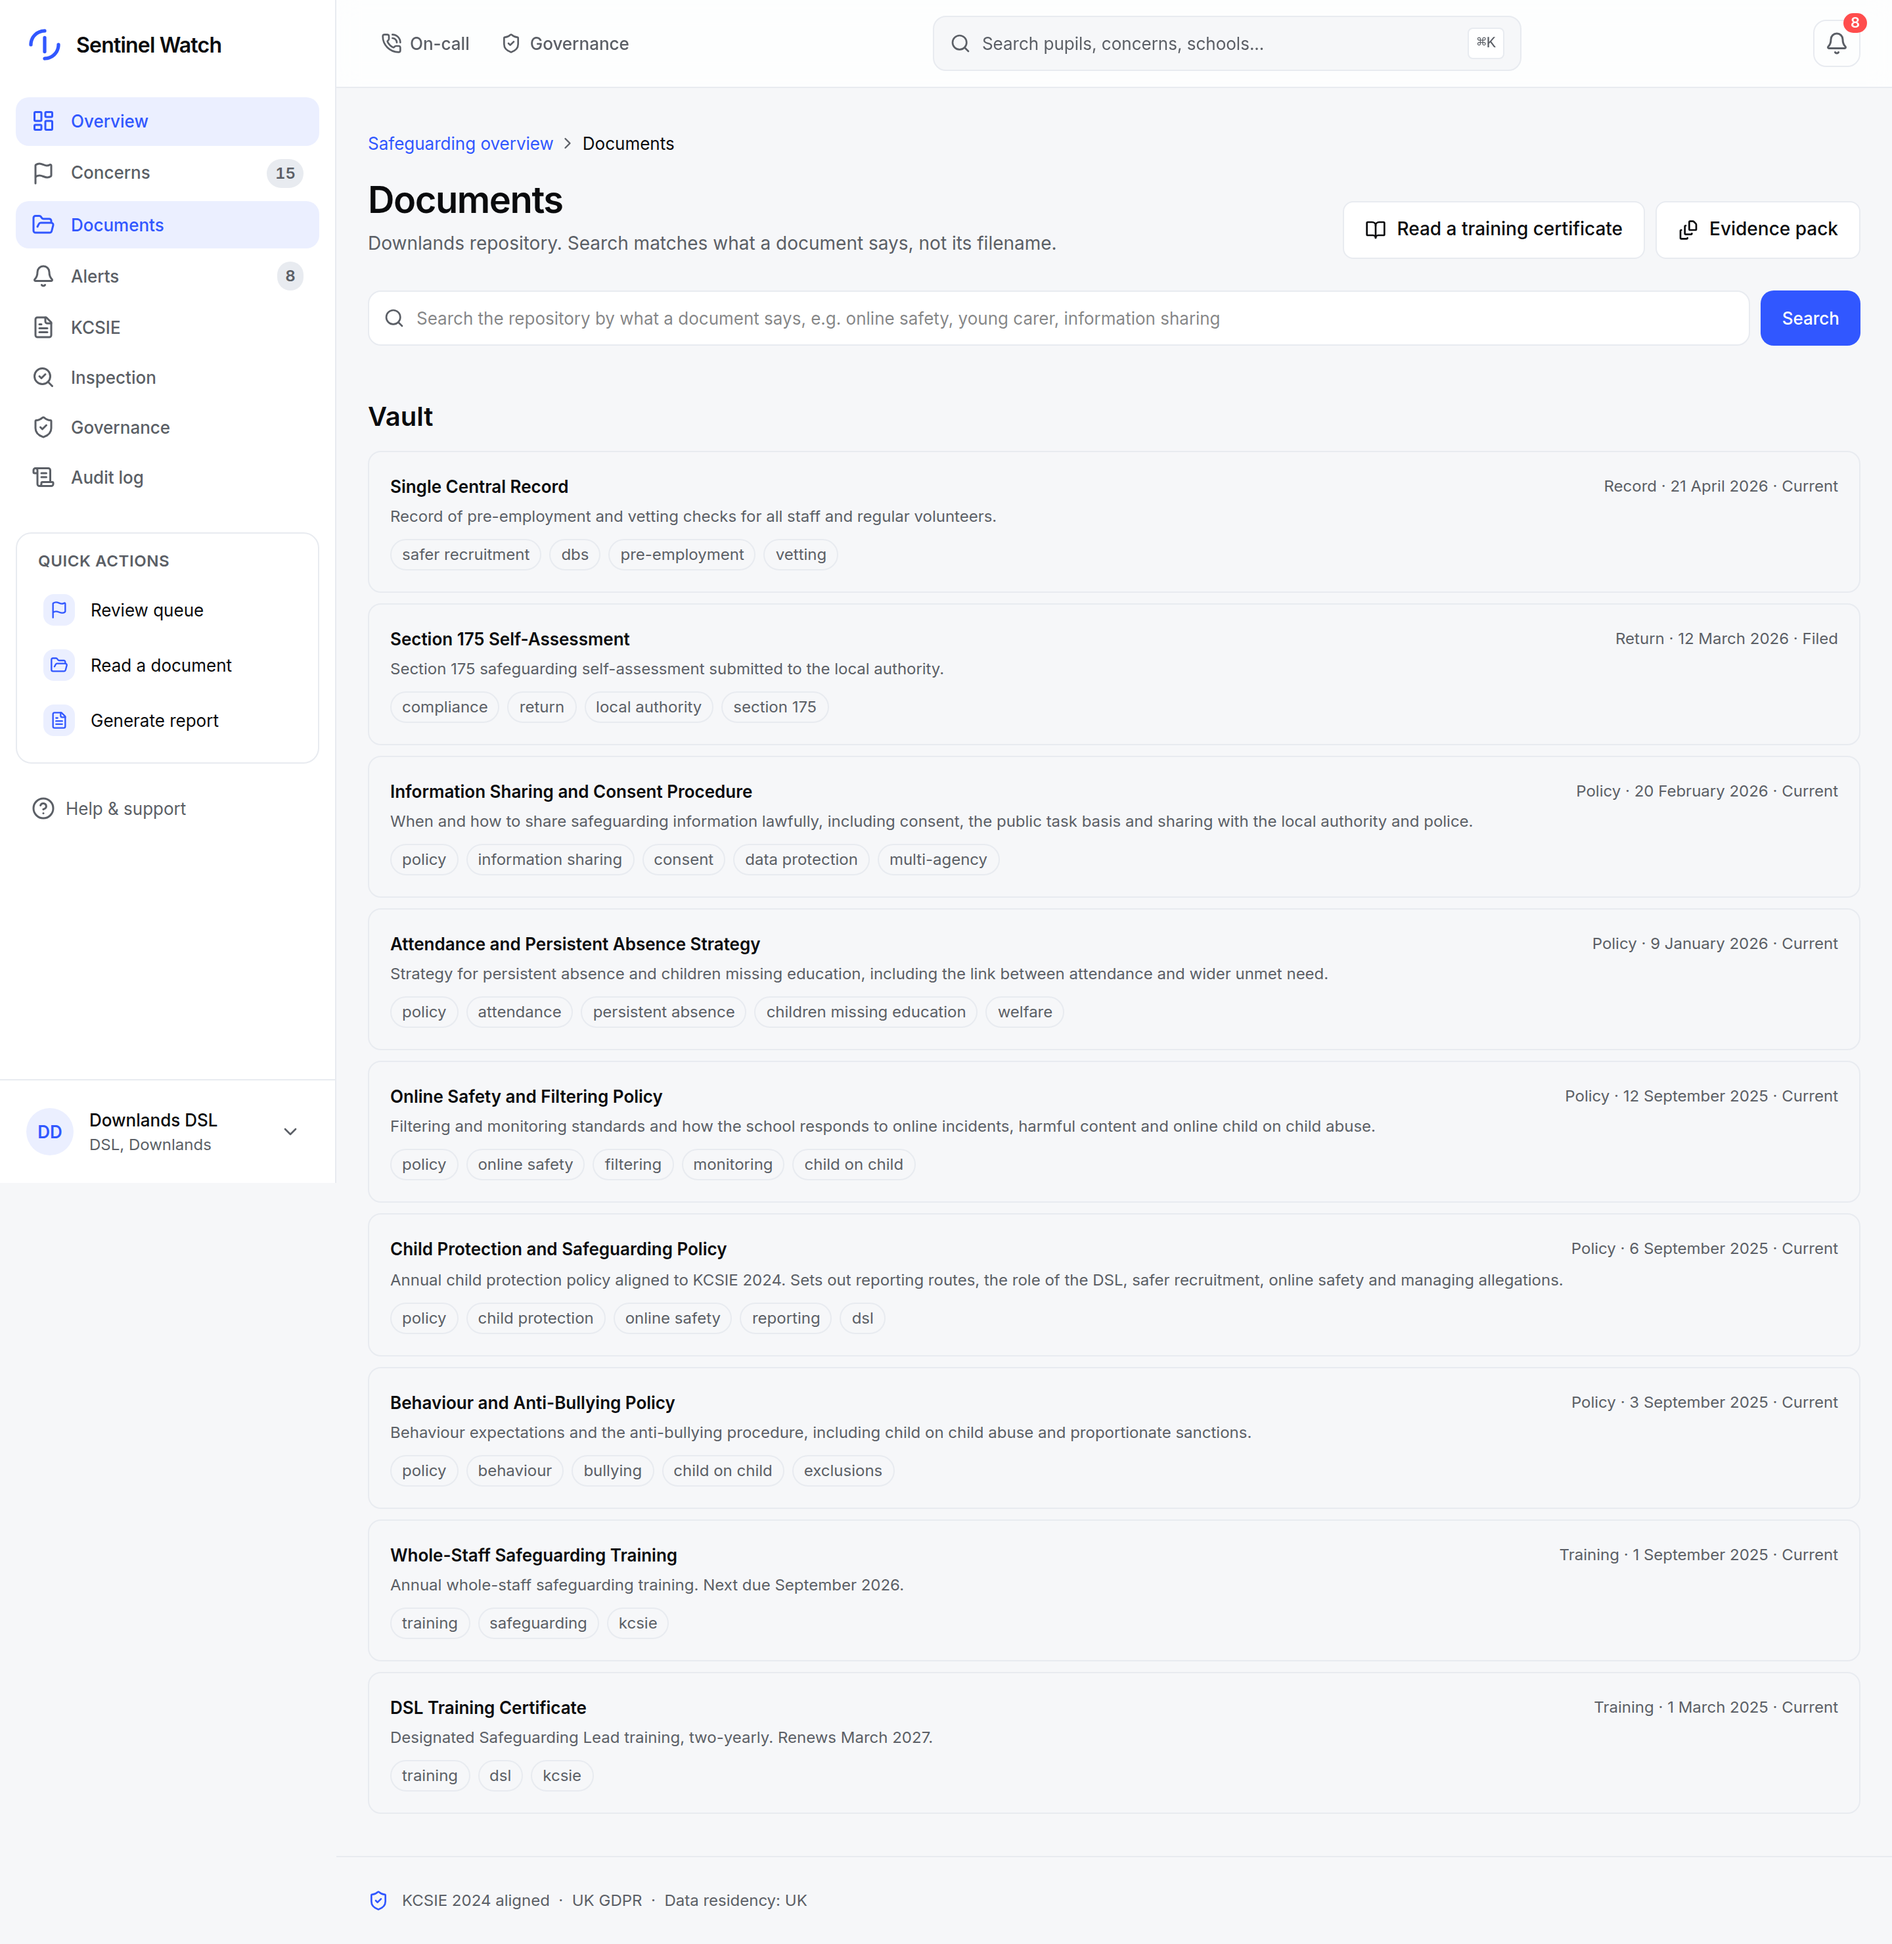
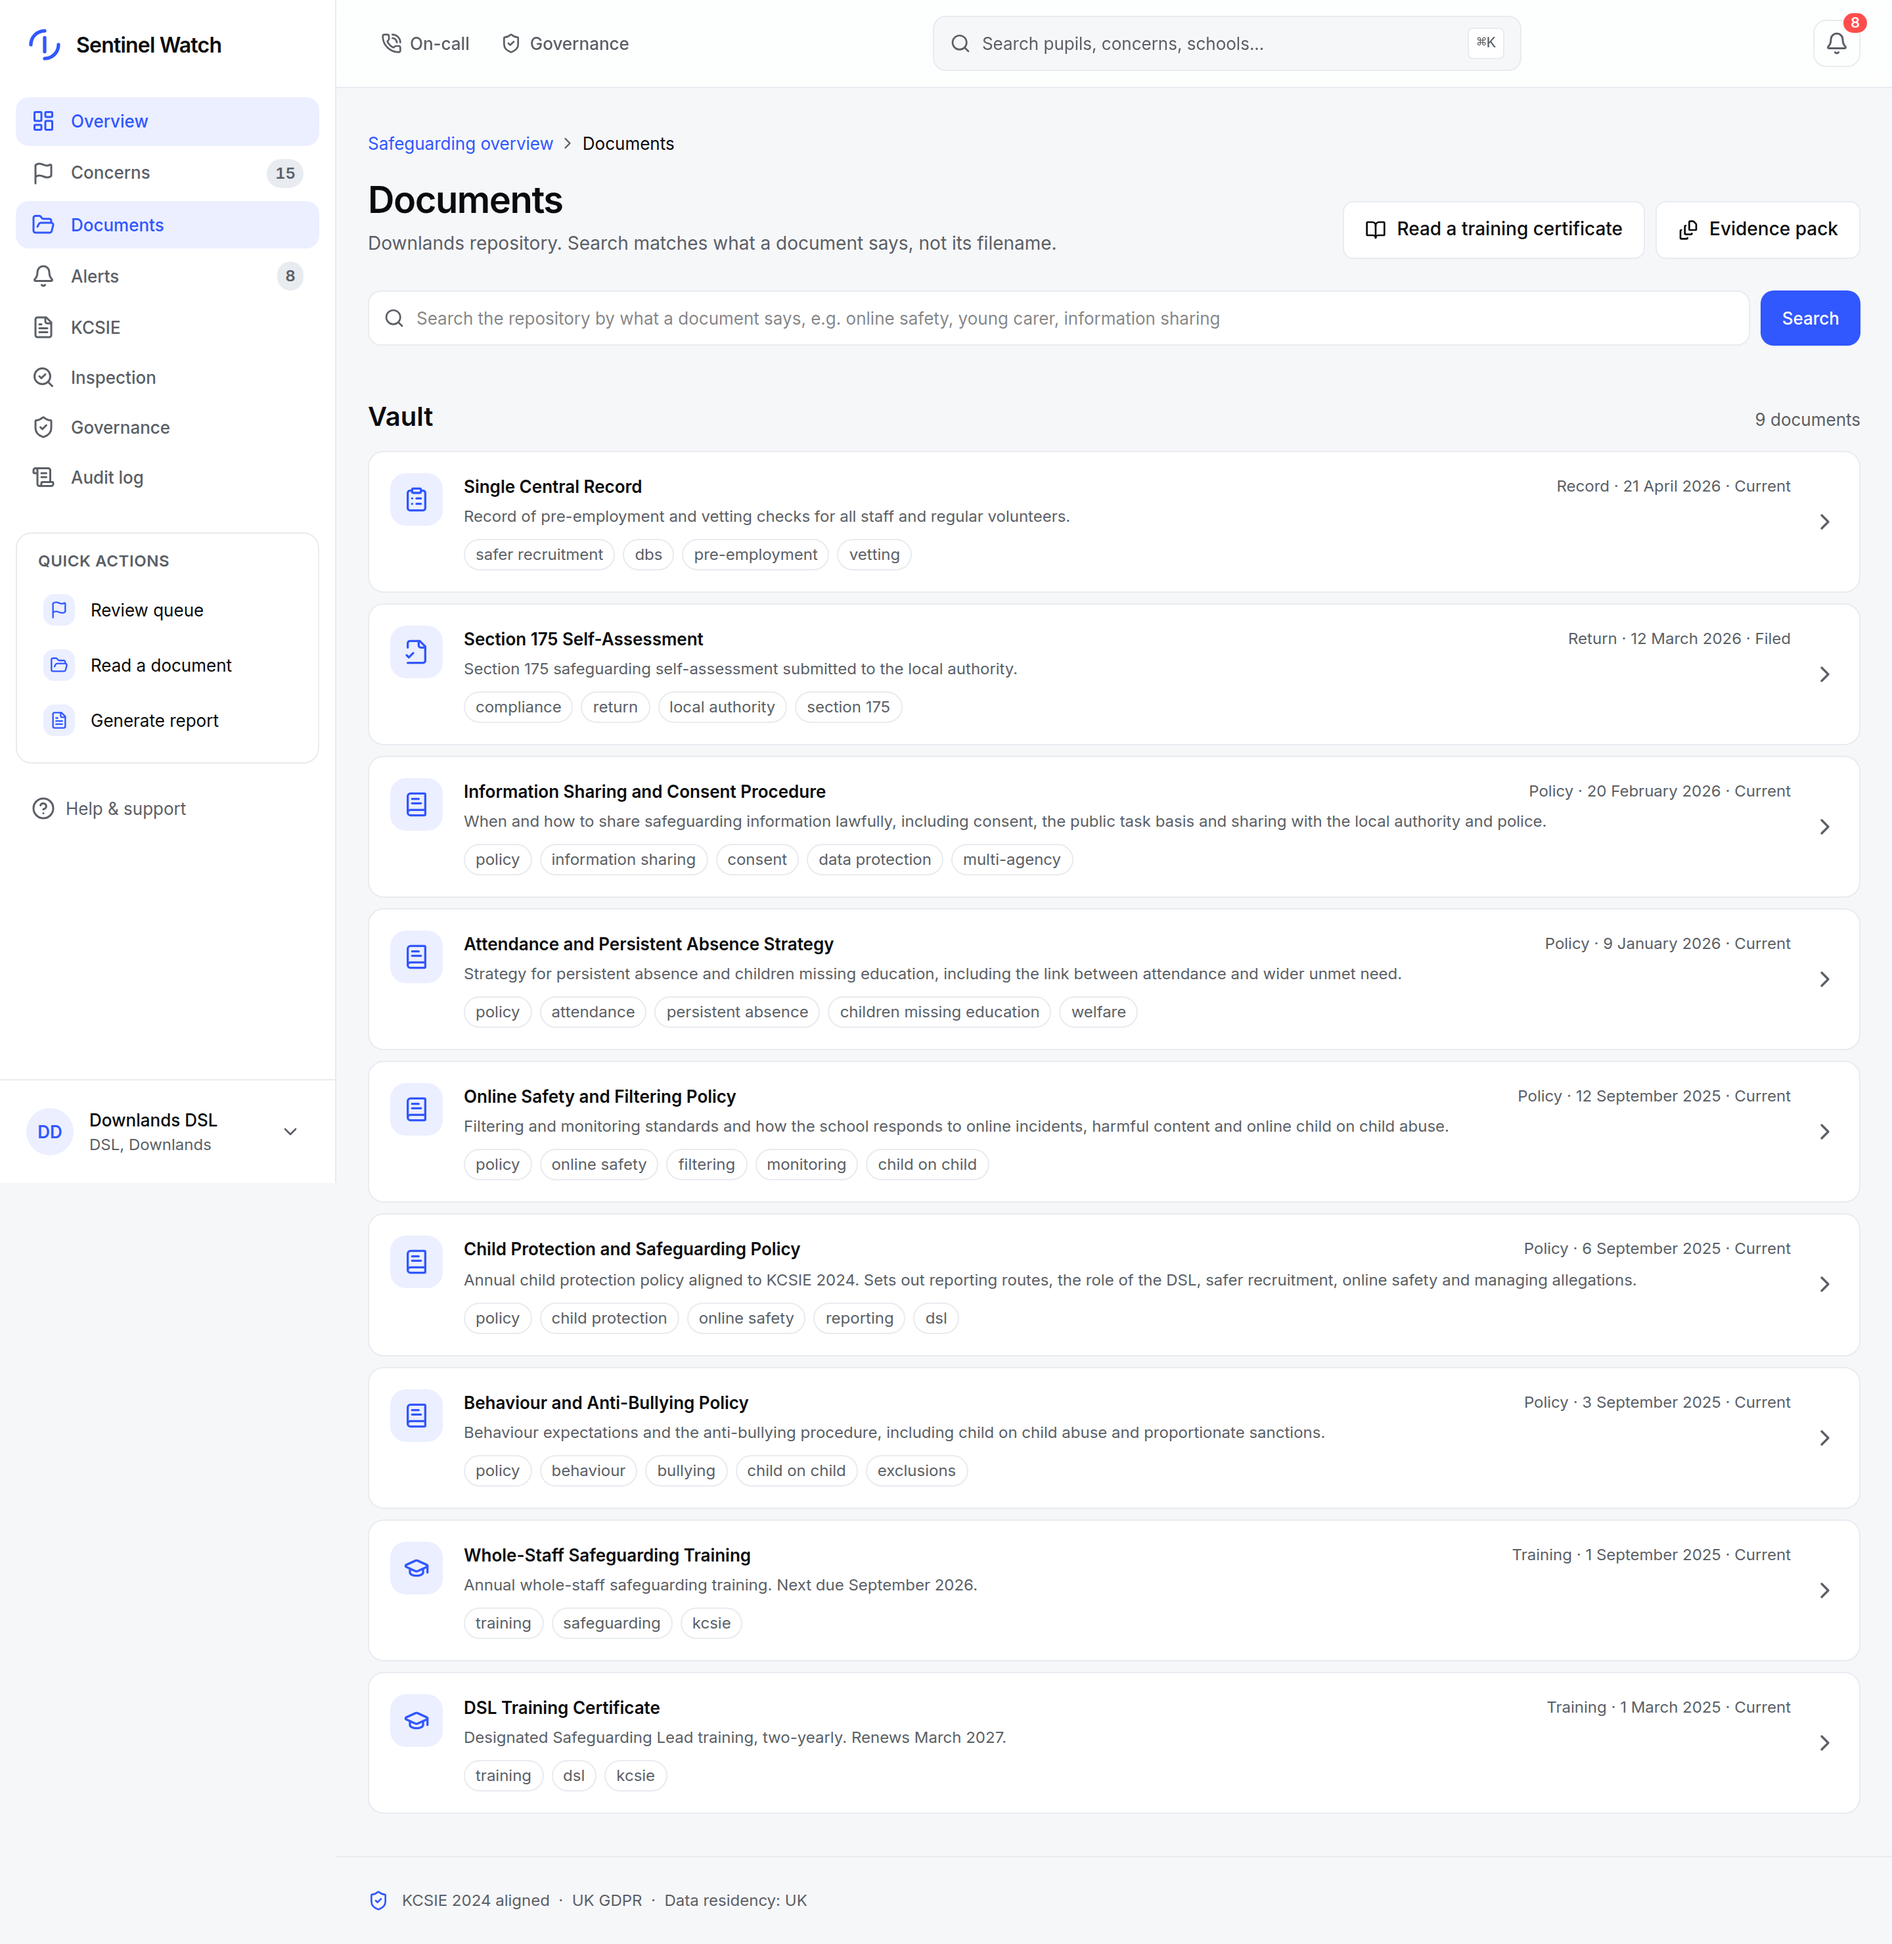
Polish the Documents reader and the case-file workflow
Bring the last two rich flows up to the redesigned standard.

Documents:
- Vault items gain a document-type icon tile (policy, training, record,
  return), a document count, and a chevron; a shared DocTypeIcon returns the
  right icon by type.
- The reader gains a matching icon tile in the header and a centred reading
  column with document-grade typography.

Case-file workflow:
- The checklist now shows a cobalt progress bar under the "N of M / %"
  summary, so progress reads at a glance.
- Scheduled pastoral reviews get a calendar icon and a cleaner row.

UI-only; 140 web tests green, typecheck and lint clean. Screenshots refreshed.

Claude-Session: https://claude.ai/code/session_01MrcyQSs9kLS3APW2MYRm7v

diff --git a/apps/web/src/app/dashboard/school/[schoolId]/documents/page.tsx b/apps/web/src/app/dashboard/school/[schoolId]/documents/page.tsx
@@ -1,11 +1,13 @@
 import Link from "next/link";
 import { redirect } from "next/navigation";
+import { ChevronRight } from "lucide-react";
 
 import { TRPCError } from "@trpc/server";
 
 import { serverApi } from "@/trpc/server";
 
 import { Breadcrumbs } from "../../../shell/breadcrumbs";
+import { DocTypeIcon } from "./doc-icon";
 import { DocumentSearch } from "./document-search";
 import { EvidencePackButton } from "./evidence-pack";
 import { TrainingReader } from "./training-reader";
@@ -73,42 +75,61 @@ export default async function DocumentsPage({
         <DocumentSearch schoolId={schoolId} />
       </div>
 
-      <h2 className="mt-10 text-xl font-semibold">Vault</h2>
+      <div className="mt-10 flex items-baseline justify-between">
+        <h2 className="text-xl font-semibold">Vault</h2>
+        <span className="text-sm text-muted-foreground">
+          {vault.documents.length}{" "}
+          {vault.documents.length === 1 ? "document" : "documents"}
+        </span>
+      </div>
       <ul className="mt-3 flex flex-col gap-2">
-        {vault.documents.map((d) => (
-          <li key={d.id}>
-            <Link
-              href={`/dashboard/school/${schoolId}/documents/${d.id}`}
-              className="block rounded-lg border border-cloud p-4 transition-colors hover:border-cobalt"
-            >
-              <div className="flex flex-wrap items-center justify-between gap-2">
-                <span className="text-sm font-semibold">{d.title}</span>
-                <span className="text-xs text-muted-foreground">
-                  {d.type} ·{" "}
-                  {d.docDate.toLocaleDateString("en-GB", {
-                    day: "numeric",
-                    month: "long",
-                    year: "numeric",
-                  })}{" "}
-                  · {d.status}
+        {vault.documents.map((d) => {
+          return (
+            <li key={d.id}>
+              <Link
+                href={`/dashboard/school/${schoolId}/documents/${d.id}`}
+                className="group flex gap-4 rounded-xl border border-cloud bg-card p-4 transition-colors hover:border-cobalt focus-visible:outline-none focus-visible:ring-2 focus-visible:ring-ring"
+              >
+                <span className="flex size-10 shrink-0 items-center justify-center rounded-xl bg-cobalt-tint text-cobalt">
+                  <DocTypeIcon type={d.type} className="size-5" />
                 </span>
-              </div>
-              <p className="mt-1 text-xs text-muted-foreground">{d.summary}</p>
-              {d.themes.length > 0 ? (
-                <div className="mt-2 flex flex-wrap gap-1.5">
-                  {d.themes.slice(0, 6).map((t) => (
-                    <span
-                      key={t}
-                      className="rounded-full border border-cloud px-2 py-0.5 text-xs text-muted-foreground"
-                    >
-                      {t}
+                <div className="min-w-0 flex-1">
+                  <div className="flex flex-wrap items-center justify-between gap-2">
+                    <span className="text-sm font-semibold">{d.title}</span>
+                    <span className="text-xs text-muted-foreground">
+                      {d.type} ·{" "}
+                      {d.docDate.toLocaleDateString("en-GB", {
+                        day: "numeric",
+                        month: "long",
+                        year: "numeric",
+                      })}{" "}
+                      · {d.status}
                     </span>
-                  ))}
+                  </div>
+                  <p className="mt-1 text-xs text-muted-foreground">
+                    {d.summary}
+                  </p>
+                  {d.themes.length > 0 ? (
+                    <div className="mt-2 flex flex-wrap gap-1.5">
+                      {d.themes.slice(0, 6).map((t) => (
+                        <span
+                          key={t}
+                          className="rounded-full border border-cloud px-2 py-0.5 text-xs text-muted-foreground"
+                        >
+                          {t}
+                        </span>
+                      ))}
+                    </div>
+                  ) : null}
                 </div>
-              ) : null}
-            </Link>
-          </li>
-        ))}
+                <ChevronRight
+                  className="size-5 shrink-0 self-center text-muted-foreground transition-colors group-hover:text-cobalt"
+                  aria-hidden
+                />
+              </Link>
+            </li>
+          );
+        })}
       </ul>
     </div>
   );

diff --git a/apps/web/src/app/dashboard/school/[schoolId]/case/[signalId]/case-file.tsx b/apps/web/src/app/dashboard/school/[schoolId]/case/[signalId]/case-file.tsx
@@ -2,7 +2,7 @@
 
 import { useRouter } from "next/navigation";
 import { useState } from "react";
-import { CheckCircle2, Circle, FolderOpen } from "lucide-react";
+import { CalendarClock, CheckCircle2, Circle, FolderOpen } from "lucide-react";
 
 import { Button } from "@/components/ui/button";
 import { api } from "@/trpc/react";
@@ -53,11 +53,17 @@ export function CaseFilePanel({
 
   return (
     <div>
-      <div className="mb-3 flex items-center justify-between text-sm">
+      <div className="mb-1.5 flex items-center justify-between text-sm">
         <span className="text-muted-foreground">
           {caseFile.done} of {caseFile.total} complete
         </span>
         <span className="font-semibold tabular-nums">{pct}%</span>
+      </div>
+      <div className="mb-3 h-1.5 w-full overflow-hidden rounded-full bg-cloud">
+        <div
+          className="h-full rounded-full bg-cobalt transition-all"
+          style={{ width: `${pct}%` }}
+        />
       </div>
       <ul className="flex flex-col gap-1">
         {caseFile.tasks.map((task) => (
@@ -129,14 +135,23 @@ export function ReviewScheduler({
       {reviews.length > 0 ? (
         <ul className="mb-4 flex flex-col gap-2">
           {reviews.map((r) => (
-            <li key={r.id} className="rounded-md border border-cloud p-3 text-sm">
-              <div className="font-medium">{r.scheduledFor}</div>
-              {r.attendees.length > 0 ? (
-                <div className="text-xs text-muted-foreground">
-                  With {r.attendees.join(", ")}
-                </div>
-              ) : null}
-              {r.note ? <div className="mt-1 text-xs">{r.note}</div> : null}
+            <li
+              key={r.id}
+              className="flex gap-2.5 rounded-lg border border-cloud p-3 text-sm"
+            >
+              <CalendarClock
+                className="mt-0.5 size-4 shrink-0 text-cobalt"
+                aria-hidden
+              />
+              <div className="min-w-0">
+                <div className="font-medium">{r.scheduledFor}</div>
+                {r.attendees.length > 0 ? (
+                  <div className="text-xs text-muted-foreground">
+                    With {r.attendees.join(", ")}
+                  </div>
+                ) : null}
+                {r.note ? <div className="mt-1 text-xs">{r.note}</div> : null}
+              </div>
             </li>
           ))}
         </ul>

diff --git a/apps/web/src/app/dashboard/school/[schoolId]/documents/[docId]/page.tsx b/apps/web/src/app/dashboard/school/[schoolId]/documents/[docId]/page.tsx
@@ -6,6 +6,7 @@ import { Card } from "@/components/ui/card";
 import { serverApi } from "@/trpc/server";
 
 import { Breadcrumbs } from "../../../../shell/breadcrumbs";
+import { DocTypeIcon } from "../doc-icon";
 import { DownloadButton } from "./download";
 
 // Document viewer (spec 5.10): the generated or stored document rendered in
@@ -42,24 +43,31 @@ export default async function DocumentViewerPage({
           { label: doc.title },
         ]}
       />
-      <div className="flex flex-wrap items-end justify-between gap-4">
-        <div>
-          <h1 className="text-2xl font-semibold tracking-tight">{doc.title}</h1>
-          <p className="mt-1 text-sm text-muted-foreground">
-            {doc.type} ·{" "}
-            {doc.docDate.toLocaleDateString("en-GB", {
-              day: "numeric",
-              month: "long",
-              year: "numeric",
-            })}{" "}
-            · {doc.status}
-          </p>
+      <div className="flex flex-wrap items-start justify-between gap-4">
+        <div className="flex gap-4">
+          <span className="flex size-12 shrink-0 items-center justify-center rounded-xl bg-cobalt-tint text-cobalt">
+            <DocTypeIcon type={doc.type} className="size-6" />
+          </span>
+          <div>
+            <h1 className="text-2xl font-semibold tracking-tight">
+              {doc.title}
+            </h1>
+            <p className="mt-1 text-sm text-muted-foreground">
+              {doc.type} ·{" "}
+              {doc.docDate.toLocaleDateString("en-GB", {
+                day: "numeric",
+                month: "long",
+                year: "numeric",
+              })}{" "}
+              · {doc.status}
+            </p>
+          </div>
         </div>
         <DownloadButton title={doc.title} content={doc.content} />
       </div>
 
-      <Card className="mt-6 p-6">
-        <pre className="whitespace-pre-wrap font-sans text-sm leading-relaxed text-ink">
+      <Card className="mx-auto mt-6 max-w-3xl p-8">
+        <pre className="whitespace-pre-wrap font-sans text-[15px] leading-7 text-ink">
           {doc.content}
         </pre>
       </Card>

diff --git a/apps/web/src/app/dashboard/school/[schoolId]/documents/doc-icon.tsx b/apps/web/src/app/dashboard/school/[schoolId]/documents/doc-icon.tsx
@@ -1,0 +1,28 @@
+import {
+  BookText,
+  ClipboardList,
+  FileCheck2,
+  FileText,
+  GraduationCap,
+} from "lucide-react";
+
+// A document's type sets its icon, so the vault and reader read at a glance.
+// Returns the icon element directly (no component assigned in render).
+export function DocTypeIcon({
+  type,
+  className,
+}: {
+  type: string;
+  className?: string;
+}) {
+  const t = type.toLowerCase();
+  if (t.includes("policy"))
+    return <BookText className={className} aria-hidden />;
+  if (t.includes("training"))
+    return <GraduationCap className={className} aria-hidden />;
+  if (t.includes("record"))
+    return <ClipboardList className={className} aria-hidden />;
+  if (t.includes("return"))
+    return <FileCheck2 className={className} aria-hidden />;
+  return <FileText className={className} aria-hidden />;
+}
